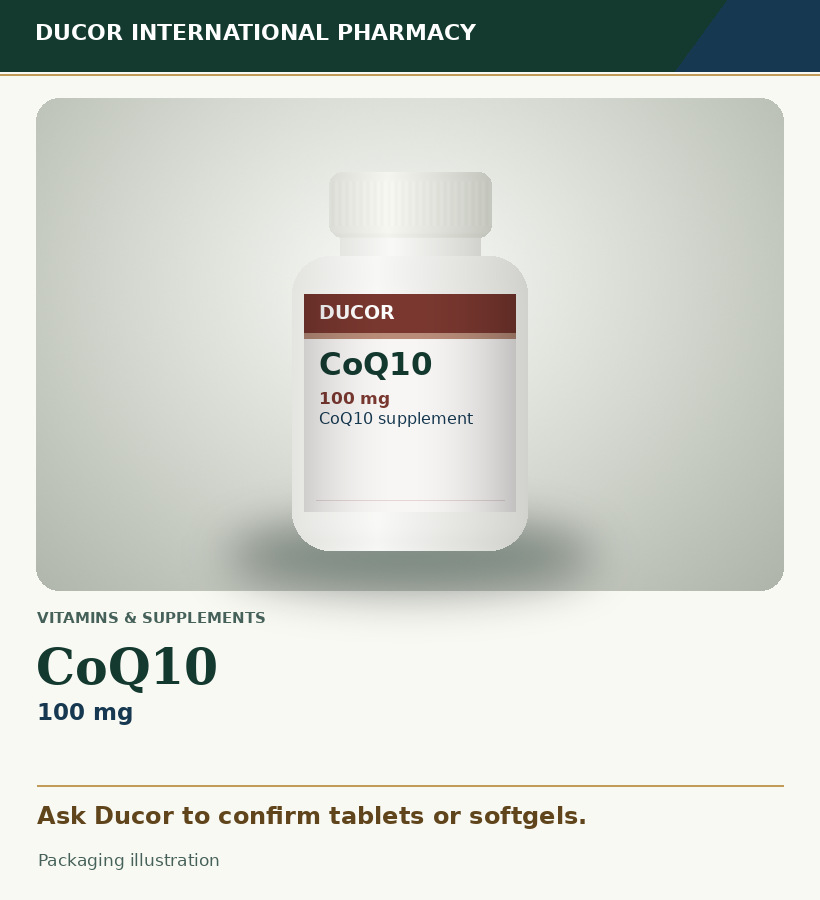
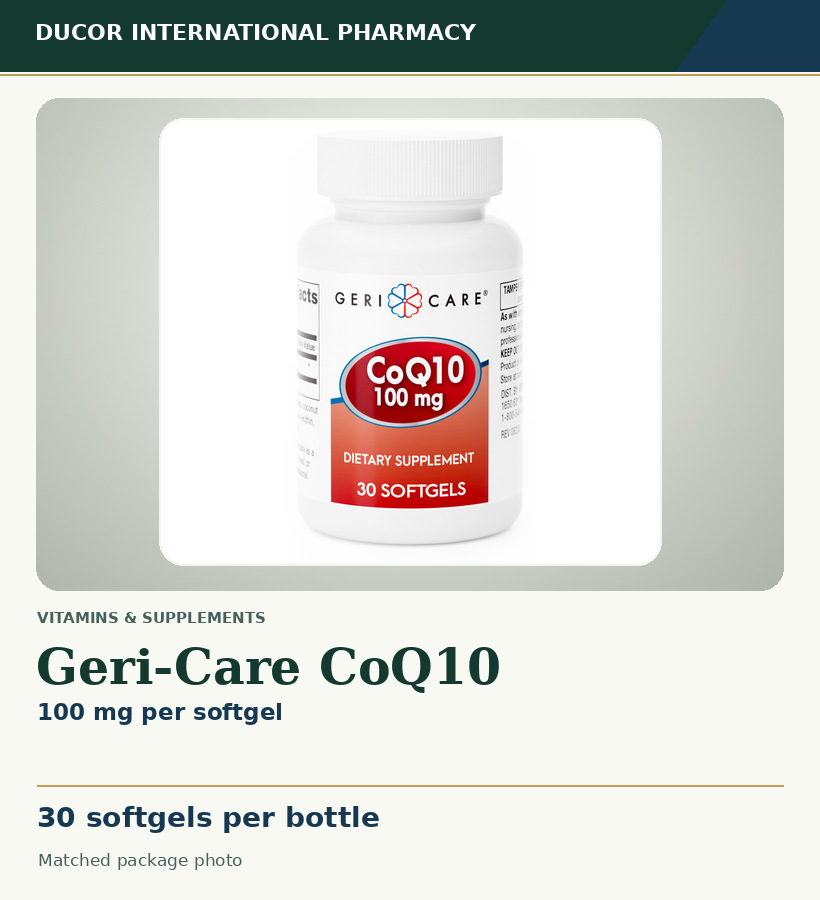
Confirm Geri-Care CoQ10 bottle and softgel details (#57)

diff --git a/product.html b/product.html
@@ -102,6 +102,7 @@
       margin-bottom: 8px; display: flex; align-items: center; gap: 8px;
     }
     .pd-notice-body { font-size: 13px; color: var(--muted); line-height: 1.65; }
+    .pd-label-source { color: var(--navy); font-size: 13px; }
 
     /* ── Action buttons ── */
     .pd-actions { display: flex; flex-direction: column; gap: 12px; }
@@ -233,7 +234,7 @@
 
     <!-- ABOUT -->
     <div>
-      <p class="pd-section-label">About This Medication</p>
+      <p class="pd-section-label" id="pd-about-label">About This Medication</p>
       <p class="pd-about-text" id="pd-about"></p>
 
       <ul class="pd-facts" id="pd-facts"></ul>
@@ -278,6 +279,7 @@
     <div class="pd-notice" id="pd-notice">
       <div class="pd-notice-title" id="pd-notice-title"></div>
       <p class="pd-notice-body" id="pd-notice-body"></p>
+      <a class="pd-label-source" id="pd-label-source" hidden>View the manufacturer’s full label (PDF)</a>
     </div>
 
     <!-- BUY INDIVIDUAL TABLETS/CAPSULES — like at the pharmacy counter -->
@@ -400,8 +402,8 @@
   <p>© 2025 <a href="/index.html">Ducor International Pharmacy</a> · Trusted Pharmaceutical &amp; Medication Supply In Liberia</p>
 </footer>
 
-<script src="/assets/product-info.js"></script>
-<script src="/assets/shop.js?v=vitamins-studio-20261124"></script>
+<script src="/assets/product-info.js?v=coq10-label-20261124"></script>
+<script src="/assets/shop.js?v=coq10-label-20261124"></script>
 <script>
 // Amazon-style hover-to-zoom — moving the mouse over the photo magnifies
 // it around the cursor position so customers can read labels/dosage clearly.
@@ -433,6 +435,9 @@ function attachZoom(wrapEl, imgEl) {
     return;
   }
 
+  const info = (typeof PRODUCT_INFO !== 'undefined') ? PRODUCT_INFO[pid] : null;
+  const labelInfo = info?.label;
+
   // Page title
   document.title = product.name + ' – Ducor International Pharmacy';
 
@@ -460,6 +465,7 @@ function attachZoom(wrapEl, imgEl) {
     priceRow.parentNode.insertBefore(notice, priceRow.nextSibling);
   } else {
     document.getElementById('pd-price').textContent = '$' + product.price.toFixed(2);
+    document.querySelector('#pd-price-row .pd-unit').textContent = '/ ' + productSaleUnit(pid);
   }
 
   // Image background
@@ -523,7 +529,7 @@ function attachZoom(wrapEl, imgEl) {
     vit013:'Tablet',vit017:'Tablet',vit018:'Tablet',vit020:'Tablet',vit025:'Tablet',vit028:'Tablet',
     vit029:'Tablet',vit031:'Tablet',vit032:'Tablet',vit037:'Tablet',
     // ── Vitamins — Capsule ──
-    vit006:'Capsule',vit007:'Capsule',vit008:'Capsule',vit009:'Capsule',vit015:'Capsule',vit016:'Capsule',
+    vit006:'Capsule',vit007:'Capsule',vit009:'Capsule',vit015:'Capsule',vit016:'Capsule',
     vit019:'Capsule',vit027:'Capsule',vit030:'Capsule',vit034:'Capsule',
   };
 
@@ -549,7 +555,7 @@ function attachZoom(wrapEl, imgEl) {
   // fall back to guessing from the name for anything not yet in the table
   // (e.g. a new product added later).
   const nameLower = product.name.toLowerCase();
-  let form = _FORM_BY_ID[pid];
+  let form = labelInfo?.form || _FORM_BY_ID[pid];
   if (!form) {
     form = 'See product label';
     if      (/\binhaler\b/.test(nameLower))               form = 'Inhaler';
@@ -576,7 +582,7 @@ function attachZoom(wrapEl, imgEl) {
 
   // Extract strength / dosage from name
   const strengthMatch = product.name.match(/(\d[\d.,]*\s*(?:mcg|mg|g|%|iu|IU|ml|\/\S+)(?:\s*\/\s*[\d.,]+\s*\S+)?)/i);
-  const strength = strengthMatch ? strengthMatch[0] : 'See product label';
+  const strength = labelInfo?.strength || (strengthMatch ? strengthMatch[0] : 'See product label');
 
   // Buy individual tablets/capsules instead of the whole bottle — only for
   // OTC/Vitamins where we know the real count and self-service buying
@@ -584,9 +590,10 @@ function attachZoom(wrapEl, imgEl) {
   // discussed directly with the pharmacist instead).
   const _up = (typeof UNIT_PRICING !== 'undefined') ? UNIT_PRICING[pid] : null;
   const unitCount = _up ? _up.count : null;
+  const unitForm = { Capsule: 'Capsule', Softgel: 'Softgel' }[form] || 'Tablet';
+  const formWord = unitForm.toLowerCase() + 's';
   if (_up) {
     const perUnitPrice = _up.unit;
-    const formWord = form === 'Capsule' ? 'capsules' : 'tablets';
     document.getElementById('pd-unit-buy').style.display = 'block';
     document.getElementById('pd-unit-form-label').textContent = formWord;
     document.getElementById('pd-unit-form-label2').textContent = formWord;
@@ -604,11 +611,14 @@ function attachZoom(wrapEl, imgEl) {
       Cart.load();
       const unitId = pid + '-unit';
       const existing = Cart.items.find(i => i.id === unitId);
-      if (existing) { existing.qty += qty; }
-      else {
+      const unitName = product.name + ' (Individual ' + unitForm + 's)';
+      if (existing) {
+        existing.qty += qty;
+        if (labelInfo) existing.name = unitName;
+      } else {
         Cart.items.push({
           id: unitId,
-          name: product.name + ' (Individual ' + formWord.charAt(0).toUpperCase() + formWord.slice(1) + ')',
+          name: unitName,
           price: perUnitPrice,
           category: cat,
           qty: qty,
@@ -630,15 +640,18 @@ function attachZoom(wrapEl, imgEl) {
     otc:     `${product.name} is an over-the-counter medication available without a prescription. It has been carefully selected and sourced from certified manufacturers. Our pharmacy team is always available to guide you on proper use, dosage, and any potential interactions.`,
     vitamins:`${product.name} is a dietary supplement available at Ducor International Pharmacy. Our supplements are sourced from reputable, certified manufacturers and are designed to support overall health and wellbeing as part of a balanced lifestyle.`
   };
-  document.getElementById('pd-about').textContent = aboutMap[dispCat] || aboutMap.rx;
+  document.getElementById('pd-about').textContent = labelInfo?.about || aboutMap[dispCat] || aboutMap.rx;
+  if (labelInfo) document.getElementById('pd-about-label').textContent = 'About This Supplement';
 
   // Key facts table
   const facts = [
     ['Category',     catFull[dispCat] || '—'],
     ['Strength',     strength],
     ['Form',         form],
+    ...(labelInfo && unitCount ? [['Bottle size', `${unitCount} ${formWord} per bottle`]] : []),
+    ...(labelInfo?.facts || []),
     ['Availability', 'In Stock at Ducor Pharmacy'],
-    ['Storage',      'Store below 25°C, away from light and moisture'],
+    ['Storage',      labelInfo?.storage || 'Store below 25°C, away from light and moisture'],
     ['Dispensed by', 'Licensed Pharmacist · Ducor International Pharmacy'],
   ];
   document.getElementById('pd-facts').innerHTML = facts
@@ -661,12 +674,18 @@ function attachZoom(wrapEl, imgEl) {
     }
   };
   const notice = noticeMap[dispCat] || noticeMap.rx;
-  document.getElementById('pd-notice-title').textContent = notice.title;
-  document.getElementById('pd-notice-body').textContent  = notice.body;
+  document.getElementById('pd-notice-title').textContent = labelInfo ? 'Manufacturer Label' : notice.title;
+  document.getElementById('pd-notice-body').textContent = labelInfo
+    ? `${labelInfo.directions} ${labelInfo.warning}`
+    : notice.body;
+  if (labelInfo) {
+    const source = document.getElementById('pd-label-source');
+    source.href = labelInfo.url;
+    source.hidden = false;
+  }
 
   // Medication info cards (from product-info.js)
-  const info = (typeof PRODUCT_INFO !== 'undefined') ? PRODUCT_INFO[pid] : null;
-  if (info) {
+  if (info && !labelInfo) {
     document.getElementById('mi-uses').textContent  = info.uses;
     document.getElementById('mi-works').textContent = info.works;
     document.getElementById('mi-side').textContent  = info.side;

diff --git a/assets/product-info.js b/assets/product-info.js
@@ -224,7 +224,25 @@ const PRODUCT_INFO = {
   'vit005':{ uses:'Comprehensive daily multivitamin for seniors providing essential nutrients with added lutein for eye health and vision protection.', works:'Complete blend of vitamins and minerals tailored to senior nutritional needs, with lutein that accumulates in the macula to protect against macular degeneration.', side:'Nausea or stomach upset if taken without food; bright urine from B vitamins.', warn:'Take with a full meal. Contains iron — keep out of reach of children. Consult doctor if taking other supplements to avoid nutrient overdose.' },
   'vit006':{ uses:'Supports cardiovascular health, provides antioxidant protection, and supports cellular energy production in heart and muscle cells.', works:'CoQ10 is a critical component in the mitochondrial electron transport chain — the cellular energy production process — and also neutralizes free radicals.', side:'Mild nausea, stomach upset, decreased appetite, insomnia if taken late in the day.', warn:'Take with a fat-containing meal for optimal absorption (fat-soluble). May slightly reduce the anticoagulant effect of warfarin — inform your doctor.' },
   'vit007':{ uses:'Supports heart health, energy production, and antioxidant protection. May help with fatigue associated with statin use.', works:'Higher CoQ10 dose for those with greater depletion (such as statin users) — supports energy metabolism and antioxidant defense in all body cells.', side:'Mild nausea, stomach upset, rarely insomnia.', warn:'Take with food containing fat. Statins deplete CoQ10 — this supplement helps replenish it. Discuss with your doctor if on warfarin.' },
-  'vit008':{ uses:'Supports heart health and energy at the highest standard dose. Recommended for those on statins or with diagnosed CoQ10 deficiency.', works:'100mg provides strong antioxidant support and mitochondrial energy support — especially beneficial for individuals taking cholesterol-lowering statins.', side:'Nausea, stomach upset, mild headache at higher doses.', warn:'Take with fatty meal. Monitor INR if on warfarin. Do not take late in the day if insomnia is a concern.' },
+  'vit008':{
+    label: {
+      about: 'Geri-Care CoQ10 is a dietary supplement with 100 mg of coenzyme Q10 in each softgel.',
+      form: 'Softgel',
+      strength: '100 mg per softgel',
+      storage: 'Room temperature',
+      facts: [
+        ['Brand', 'Geri-Care'],
+        ['Serving size', '1 softgel'],
+        ['Daily Value', 'Not established for CoQ10'],
+        ['Other ingredients', 'Soybean oil, gelatin, coconut oil, glycerol, purified water, sorbitol, soy lecithin, riboflavin, titanium dioxide, and iron oxide.'],
+        ['Manufacturer product code', '875-03-GCP'],
+        ['Origin on label', 'Romania'],
+      ],
+      directions: 'The label suggests one softgel daily for adults, preferably with a meal, or as advised by a healthcare professional.',
+      warning: 'Check with a healthcare professional before use if you are pregnant, nursing, or taking medication. Keep away from children and use only if the seal under the cap is intact.',
+      url: 'https://www.gericarepharm.com/wp-content/uploads/2022/11/875-03-GCP_R0524.pdf',
+    },
+  },
   'vit009':{ uses:'Provides omega-3 fatty acids (EPA and DHA) along with vitamins A and D for heart health, joint support, immune function, and brain health.', works:'Fish-derived oil rich in anti-inflammatory EPA and DHA omega-3 fatty acids plus vitamins A and D that support multiple body systems.', side:'Fishy aftertaste, burping, loose stools, stomach upset. Vitamin A toxicity with high doses.', warn:'Avoid very high doses in pregnancy (excess vitamin A risk). Keep refrigerated after opening. Caution with blood thinners due to mild anticoagulant effect.' },
   'vit010':{ uses:'Supports skin elasticity and hydration, joint health and flexibility, and bone strength. May reduce visible signs of aging.', works:'Hydrolyzed collagen provides amino acids (glycine, proline, hydroxyproline) that the body uses to rebuild collagen in skin, joints, and bones.', side:'Mild digestive discomfort, fullness, or aftertaste.', warn:'Take with vitamin C for enhanced collagen synthesis. Effects take several weeks to months of consistent use to notice.' },
   'vit011':{ uses:'Supports urinary tract health and may reduce the frequency of recurrent urinary tract infections (UTIs).', works:'Proanthocyanidins (PACs) in cranberry appear to prevent certain bacteria (especially E. coli) from adhering to the urinary tract wall.', side:'Stomach upset with high doses. Rarely causes kidney stones in prone individuals.', warn:'Not a treatment for an active UTI — see a doctor for antibiotic treatment. May slightly increase the effect of blood-thinning medications.' },

diff --git a/assets/shop.js b/assets/shop.js
@@ -193,7 +193,7 @@ const PRODUCTS = {
     {id:'vit003',name:'B-Complex with Vitamin C',price:36.00},
     {id:'vit004',name:'Calcium with Vitamin D',price:30.00},
     {id:'vit005',name:'CertaVite Senior Multivitamin',price:36.00},
-    {id:'vit008',name:'CoQ10 100mg',price:30.00},
+    {id:'vit008',name:'Geri-Care CoQ10 100 mg',price:30.00},
     {id:'vit009',name:'Cod Liver Oil',price:48.00},
     {id:'vit010',name:'Collagen Formula Capsules',price:48.00},
     {id:'vit011',name:'Cranberry Tablets',price:48.00},
@@ -412,7 +412,7 @@ const UNIT_PRICING = {
   vit003:{count:100,unit:0.36},
   vit004:{count:60,unit:0.50},
   vit005:{count:60,unit:0.60},
-  vit008:{count:30,unit:1.00},
+  vit008:{count:30,unit:1.00,container:'Bottle'},
   vit010:{count:60,unit:0.80},
   vit011:{count:100,unit:0.48},
   vit012:{count:100,unit:0.48},
@@ -1184,9 +1184,14 @@ const _REVISED_VITAMIN_IMAGES = new Set(PRODUCTS.vitamins.filter(product => prod
 
 function productJpgUrl(productId) {
   const path = '/assets/products/' + productId + '.jpg';
+  if (productId === 'vit008') return path + '?v=coq10-label-20261124';
   if (_REVISED_OTC_IMAGES.has(productId)) return path + '?v=otc-containers-20261123';
   if (_REVISED_VITAMIN_IMAGES.has(productId)) return path + '?v=vitamins-studio-20261124';
   return _REVISED_PRESCRIPTION_IMAGES.has(productId) ? path + '?v=prescription-containers-20261124' : path;
+}
+
+function productSaleUnit(productId) {
+  return UNIT_PRICING[productId]?.container || 'Dose';
 }
 
 async function _loadProductImage(productId, productName, category, svgFallback) {
@@ -1351,6 +1356,7 @@ const ProductModal = {
 
     document.getElementById('pm-name').textContent  = product.name;
     document.getElementById('pm-price').textContent = '$' + product.price.toFixed(2);
+    document.getElementById('pm-unit').textContent  = '/ ' + productSaleUnit(productId);
     document.getElementById('pm-note').textContent  = notes[dispCat] || '';
     const priceRow = document.querySelector('.pm-price-row');
     if (priceRow) priceRow.style.display = dispCat === 'rx' ? 'none' : '';
@@ -1533,7 +1539,7 @@ function renderProducts(category, containerId, filterVal = '', sortVal = 'name')
       <div class="product-body">
         <span class="product-tag ${tagClass[category]}">${tagLabel[category]}</span>
         <p class="product-name">${p.name}</p>
-        ${(category === 'rx' || category === 'prescription') ? `<p class="product-price" style="color:#0891b2;font-size:12px;font-weight:600">📞 Call for pricing</p>` : `<p class="product-price">$${p.price.toFixed(2)} <span>/ Dose</span></p>`}
+        ${(category === 'rx' || category === 'prescription') ? `<p class="product-price" style="color:#0891b2;font-size:12px;font-weight:600">📞 Call for pricing</p>` : `<p class="product-price">$${p.price.toFixed(2)} <span>/ ${productSaleUnit(p.id)}</span></p>`}
         ${(category === 'rx' || category === 'prescription')
           ? `<button class="btn-add" id="btn-${p.id}" onclick="showRxPricingNotice('${p.id}','${category}','${p.name.replace(/'/g, '&apos;').replace(/"/g, '&quot;')}')" style="background:linear-gradient(135deg,#0d1b2a,#162540)">
               <svg width="16" height="16" viewBox="0 0 24 24" fill="none" stroke="currentColor" stroke-width="2.5"><path d="M22 16.92v3a2 2 0 01-2.18 2 19.79 19.79 0 01-8.63-3.07A19.5 19.5 0 013.07 9.81 19.79 19.79 0 01.07 1.18 2 2 0 012 0h3a2 2 0 012 1.72c.127.96.361 1.903.7 2.81a2 2 0 01-.45 2.11L6.09 7.91a16 16 0 006 6l1.27-1.27a2 2 0 012.11-.45c.907.339 1.85.573 2.81.7A2 2 0 0122 16.92z"/></svg>

diff --git a/vitamins.html b/vitamins.html
@@ -129,7 +129,7 @@
   <p>© 2025 <a href="/index.html">Ducor International Pharmacy</a> · Trusted Pharmaceutical &amp; Medication Supply In Liberia</p>
 </footer>
 
-<script src="/assets/shop.js?v=vitamins-studio-20261124"></script>
+<script src="/assets/shop.js?v=coq10-label-20261124"></script>
 <script>initShop('vitamins');</script>
 <script>
 (function(){var s=JSON.parse(sessionStorage.getItem('ducor_sess_v2')||localStorage.getItem('ducor_sess_v2')||'null');if(s&&s.userId&&Date.now()<s.expiry){document.getElementById('nav-account-link').style.display='';document.getElementById('nav-login-link').style.display='none';}})();
